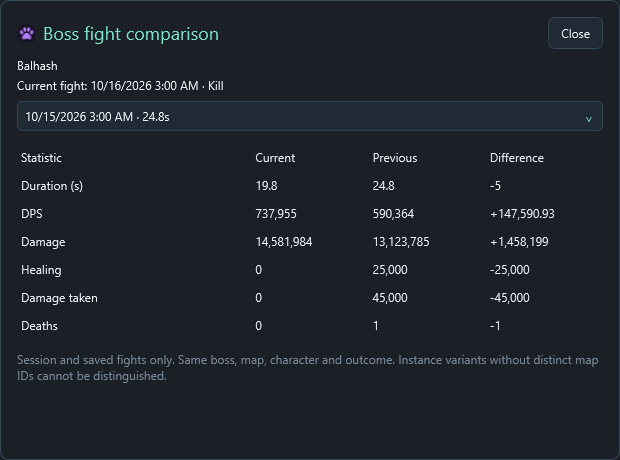
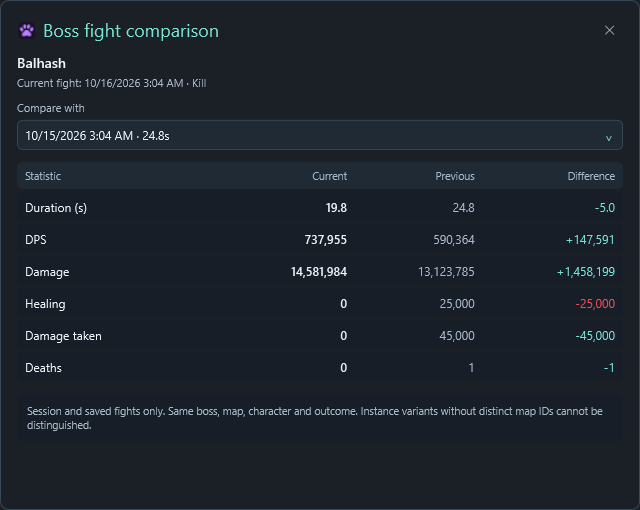
Refine boss comparison with meter-style rows and directional changes

diff --git a/src/AionMeter.App/Windows/BossComparisonWindow.cs b/src/AionMeter.App/Windows/BossComparisonWindow.cs
@@ -10,23 +10,28 @@ internal sealed class BossComparisonWindow : Window
 {
     private readonly Grid _table=new(){Margin=new(0,12,0,0)};
     private static string T(string text)=>UiText.Current.Localize(text);
+    private static readonly Brush Accent=new SolidColorBrush(Color.FromRgb(121,227,207));
+    private static readonly Brush Muted=new SolidColorBrush(Color.FromRgb(169,184,199));
+    private static readonly Brush Red=new SolidColorBrush(Color.FromRgb(239,77,86));
+    private static readonly Brush Surface=new SolidColorBrush(Color.FromRgb(23,30,39));
     private sealed record Choice(EncounterSnapshot Fight){public string Label=>$"{Fight.StartedAt.LocalDateTime.ToString("g",UiText.Current.Culture)} · {(Fight.CombatMs/1000d).ToString("N1",UiText.Current.Culture)}s";public override string ToString()=>Label;}
     public BossComparisonWindow(EncounterSnapshot current,IEnumerable<EncounterSnapshot> candidates)
     {
-        Title="CatScratch · "+T("Boss fight comparison");Width=620;Height=460;MinWidth=520;MinHeight=340;WindowStyle=WindowStyle.None;WindowStartupLocation=WindowStartupLocation.CenterScreen;
+        Title="CatScratch · "+T("Boss fight comparison");Width=640;Height=510;MinWidth=560;MinHeight=340;WindowStyle=WindowStyle.None;WindowStartupLocation=WindowStartupLocation.CenterScreen;
         FontFamily=new("Segoe UI");Foreground=new SolidColorBrush(Color.FromRgb(237,242,247));Background=new SolidColorBrush(Color.FromRgb(27,32,39));
         Resources.MergedDictionaries.Add(new ResourceDictionary {Source=new Uri("/CatScratch;component/Theme/MeterTools.xaml",UriKind.Relative)});
         AppIcon.Apply(this);
         var root=new StackPanel {Margin=new(16)};
         var header=new DockPanel();root.Children.Add(header);
-        var close=new Button {Content=T("Close"),HorizontalAlignment=HorizontalAlignment.Right};close.Click+=(_,_)=>Close();DockPanel.SetDock(close,Dock.Right);header.Children.Add(close);
+        var close=new Button {Content="\uE711",ToolTip=T("Close"),Style=(Style)FindResource("IconButton"),HorizontalAlignment=HorizontalAlignment.Right};close.Click+=(_,_)=>Close();DockPanel.SetDock(close,Dock.Right);header.Children.Add(close);
         var paw=new Image {Source=Icon,Width=18,Height=18,Margin=new(0,0,8,0)};DockPanel.SetDock(paw,Dock.Left);header.Children.Add(paw);
         header.Children.Add(new TextBlock {Text=T("Boss fight comparison"),FontSize=18,VerticalAlignment=VerticalAlignment.Center,Foreground=new SolidColorBrush(Color.FromRgb(121,227,207))});
-        root.Children.Add(new TextBlock {Text=current.Boss?.Name,Margin=new(0,8,0,0)});
-        root.Children.Add(new TextBlock {Text=$"{T("Current fight")}: {current.StartedAt.LocalDateTime.ToString("g",UiText.Current.Culture)} · {T(current.Reason.ToString())}",Margin=new(0,4,0,8)});
+        root.Children.Add(new TextBlock {Text=current.Boss?.Name,FontSize=14,FontWeight=FontWeights.SemiBold,Margin=new(0,10,0,0)});
+        root.Children.Add(new TextBlock {Text=$"{T("Current fight")}: {current.StartedAt.LocalDateTime.ToString("g",UiText.Current.Culture)} · {T(current.Reason.ToString())}",FontSize=11,Foreground=Muted,Margin=new(0,4,0,10)});
         var choices=candidates.Where(p=>p.StartedAt<current.StartedAt && BossComparison.Compatible(current,p)).DistinctBy(p=>p.Id).OrderByDescending(p=>p.StartedAt).Select(p=>new Choice(p)).ToList();
+        root.Children.Add(new TextBlock {Text=T("Compare with"),FontSize=11,Foreground=Muted,Margin=new(0,0,0,5)});
         var select=new ComboBox {ItemsSource=choices,DisplayMemberPath="Label",MinWidth=250};root.Children.Add(select);root.Children.Add(_table);
-        root.Children.Add(new TextBlock {Text=T("Session and saved fights only. Same boss, map, character and outcome. Instance variants without distinct map IDs cannot be distinguished."),TextWrapping=TextWrapping.Wrap,Margin=new(0,12,0,0),Foreground=Brushes.LightSlateGray});
+        root.Children.Add(new Border {Background=Surface,CornerRadius=new(6),Padding=new(10),Margin=new(0,10,0,0),Child=new TextBlock {Text=T("Session and saved fights only. Same boss, map, character and outcome. Instance variants without distinct map IDs cannot be distinguished."),FontSize=10.5,TextWrapping=TextWrapping.Wrap,Foreground=Muted}});
         if(choices.Count==0)root.Children.Add(new TextBlock {Text=T("No comparable earlier fight available. Save boss fights to compare them after restarting."),TextWrapping=TextWrapping.Wrap,Margin=new(0,10,0,0)});
         select.SelectionChanged+=(_,_)=>{if(select.SelectedItem is Choice choice)Draw(current,choice.Fight);};select.SelectedIndex=choices.Count>0?0:-1;
         Content=new Border {Child=new ScrollViewer {Content=root,VerticalScrollBarVisibility=ScrollBarVisibility.Auto},BorderBrush=new SolidColorBrush(Color.FromRgb(54,73,87)),BorderThickness=new(1),CornerRadius=new(8)};
@@ -34,13 +39,25 @@ internal sealed class BossComparisonWindow : Window
     }
     private void Draw(EncounterSnapshot current,EncounterSnapshot previous)
     {
-        _table.Children.Clear();_table.RowDefinitions.Clear();_table.ColumnDefinitions.Clear();foreach(var width in new[]{2d,1d,1d,1d})_table.ColumnDefinitions.Add(new(){Width=new(width,GridUnitType.Star)});
+        _table.Children.Clear();_table.RowDefinitions.Clear();_table.ColumnDefinitions.Clear();foreach(var width in new[]{1.65d,1d,1d,1.1d})_table.ColumnDefinitions.Add(new(){Width=new(width,GridUnitType.Star)});
         var a=current.Combatants.Single(c=>c.IsSelf);var b=previous.Combatants.Single(c=>c.IsSelf);
-        void Row(string label,string now,string before,string delta){int row=_table.RowDefinitions.Count;_table.RowDefinitions.Add(new(){Height=GridLength.Auto});int col=0;foreach(var text in new[]{label,now,before,delta}){var cell=new TextBlock {Text=text,Margin=new(4,6,4,6),TextTrimming=TextTrimming.CharacterEllipsis};Grid.SetRow(cell,row);Grid.SetColumn(cell,col++);_table.Children.Add(cell);}}
+        void Row(string label,string now,string before,string delta,int? improvement=null)
+        {
+            int row=_table.RowDefinitions.Count;_table.RowDefinitions.Add(new(){Height=GridLength.Auto});
+            var background=new Border {Background=row==0?new SolidColorBrush(Color.FromRgb(32,42,53)):Surface,CornerRadius=new(5),Margin=new(0,0,0,3)};
+            Grid.SetRow(background,row);Grid.SetColumnSpan(background,4);_table.Children.Add(background);
+            int col=0;foreach(var text in new[]{label,now,before,delta})
+            {
+                var cell=new TextBlock {Text=text,ToolTip=text,FontSize=row==0?10.5:12,FontWeight=row>0 && col==1?FontWeights.SemiBold:FontWeights.Normal,
+                    Foreground=row==0?Muted:col==2?Muted:col==3?improvement is >0?Accent:improvement is <0?Red:Muted:Foreground,
+                    TextAlignment=col==0?TextAlignment.Left:TextAlignment.Right,Margin=new(8,7,8,9),TextTrimming=TextTrimming.CharacterEllipsis};
+                Grid.SetRow(cell,row);Grid.SetColumn(cell,col++);_table.Children.Add(cell);
+            }
+        }
         Row(T("Statistic"),T("Current"),T("Previous"),T("Difference"));
-        void Metric(string name,double x,double y,string format="N0")=>Row(T(name),x.ToString(format,UiText.Current.Culture),y.ToString(format,UiText.Current.Culture),(x-y).ToString("+#,0.##;-#,0.##;0",UiText.Current.Culture));
-        Metric("Duration (s)",current.CombatMs/1000d,previous.CombatMs/1000d,"N1");Metric("DPS",a.Dps,b.Dps);Metric("Damage",a.Damage,b.Damage);Metric("Healing",a.Healing,b.Healing);Metric("Damage taken",a.DamageTaken,b.DamageTaken);
-        Row(T("Deaths"),a.Deaths?.ToString()??"—",b.Deaths?.ToString()??"—",a.Deaths is int ad && b.Deaths is int bd?(ad-bd).ToString("+0;-0;0"):"—");
+        void Metric(string name,double x,double y,bool lower=false,string format="N0")=>Row(T(name),x.ToString(format,UiText.Current.Culture),y.ToString(format,UiText.Current.Culture),(x-y).ToString(format=="N1"?"+#,0.0;-#,0.0;0":"+#,0;-#,0;0",UiText.Current.Culture),Math.Sign(x-y)*(lower?-1:1));
+        Metric("Duration (s)",current.CombatMs/1000d,previous.CombatMs/1000d,true,"N1");Metric("DPS",a.Dps,b.Dps);Metric("Damage",a.Damage,b.Damage);Metric("Healing",a.Healing,b.Healing);Metric("Damage taken",a.DamageTaken,b.DamageTaken,true);
+        Row(T("Deaths"),a.Deaths?.ToString()??"—",b.Deaths?.ToString()??"—",a.Deaths is int ad && b.Deaths is int bd?(ad-bd).ToString("+0;-0;0"):"—",a.Deaths is int x && b.Deaths is int y?Math.Sign(y-x):null);
         bool Partial(EncounterSnapshot fight)=>!fight.BossStartObserved || fight.Boss?.CountedFrom is not null;
         if(Partial(current) || Partial(previous))Row(T("Recording"),Partial(current)?T("Possibly partial"):"—",Partial(previous)?T("Possibly partial"):"—","");
     }

diff --git a/src/AionMeter.App/Services/UiText.LayoutComparison.cs b/src/AionMeter.App/Services/UiText.LayoutComparison.cs
@@ -6,6 +6,7 @@ public sealed partial class UiText
     {
         ["Overlay profiles"]=("Overlay-Profile","Профили оверлеев","Profils des overlays"),
         ["Profile name"]=("Profilname","Название профиля","Nom du profil"),
+        ["Compare with"]=("Vergleichen mit","Сравнить с","Comparer avec"),
         ["Saved profiles"]=("Gespeicherte Profile","Сохранённые профили","Profils enregistrés"),
         ["Save current layout"]=("Aktuelles Layout speichern","Сохранить текущий макет","Enregistrer la disposition actuelle"),
         ["No profiles saved yet."]=("Noch keine Profile gespeichert.","Пока нет сохранённых профилей.","Aucun profil enregistré."),

diff --git a/README.md b/README.md
@@ -2,12 +2,12 @@
 
 A separate, always-on-top Windows DPS meter for **AION 2**, by Zerafithekitten. Track your own fights and confirmed party members in a compact dark interface with turquoise accents and purple paw branding.
 
-[Download Stable](https://github.com/Zerafithekitten/CatScratch/releases/latest) · [Download Beta](https://github.com/Zerafithekitten/CatScratch/releases/tag/v2.5.6-beta.8) · [Release history](https://github.com/Zerafithekitten/CatScratch/releases) · [Report a bug / request a feature](https://github.com/Zerafithekitten/CatScratch/issues/new/choose)
+[Download Stable](https://github.com/Zerafithekitten/CatScratch/releases/latest) · [Download Beta](https://github.com/Zerafithekitten/CatScratch/releases/tag/v2.5.6-beta.9) · [Release history](https://github.com/Zerafithekitten/CatScratch/releases) · [Report a bug / request a feature](https://github.com/Zerafithekitten/CatScratch/issues/new/choose)
 
 | Channel | Current version | What it includes |
 | --- | --- | --- |
 | **Stable** | **[v2.5.5](https://github.com/Zerafithekitten/CatScratch/releases/tag/v2.5.5)** | Boss personal bests, recent teammates, death recap, background updates, separate Started events, improved group-search handling and ten patchnotes tabs on the left. |
-| **Beta** | **[v2.5.6-beta.8](https://github.com/Zerafithekitten/CatScratch/releases/tag/v2.5.6-beta.8)** | Everything in Stable, plus optional quiet automatic start/close with AION 2, a five-member roster repair, a capture-folder shortcut and a compact five-hit death recap, optional overlay profiles and boss comparisons. |
+| **Beta** | **[v2.5.6-beta.9](https://github.com/Zerafithekitten/CatScratch/releases/tag/v2.5.6-beta.9)** | Everything in Stable, plus optional quiet automatic start/close with AION 2, a five-member roster repair, a capture-folder shortcut and a compact five-hit death recap, optional overlay profiles and boss comparisons. |
 
 English is the default. German, Russian and French are also available. Screenshots use synthetic sample data; names and numbers are examples. Event-module previews show **v2.5.4-beta.4**.
 
@@ -264,7 +264,7 @@ This keeps the watcher separate from the program files that an update replaces, 
 - The watcher does not capture game traffic, download updates, upload files, read chat or ask for account credentials. Network capture and normal update checks belong to the meter after it starts.
 - The task runs for the signed-in user with the highest available privileges, matching CatScratch's existing administrator requirement. It does not create a SYSTEM service or store your Windows password.
 - The shipped local script uses `-ExecutionPolicy Bypass` for its own PowerShell process. CatScratch does not change the machine-wide PowerShell execution policy. Managed Windows restrictions may still prevent it from running; failed setup is reported rather than silently enabling the option.
-- Scripts and configuration are kept locally in `userdata/game-start`. You can inspect the [watcher source](https://github.com/Zerafithekitten/CatScratch/blob/v2.5.6-beta.8/src/AionMeter.App/Services/GameLifetime.cs) and [windowless launcher source](https://github.com/Zerafithekitten/CatScratch/blob/v2.5.6-beta.8/src/AionMeter.App/Launcher/GameWatcherLauncher.cs).
+- Scripts and configuration are kept locally in `userdata/game-start`. You can inspect the [watcher source](https://github.com/Zerafithekitten/CatScratch/blob/v2.5.6-beta.9/src/AionMeter.App/Services/GameLifetime.cs) and [windowless launcher source](https://github.com/Zerafithekitten/CatScratch/blob/v2.5.6-beta.9/src/AionMeter.App/Launcher/GameWatcherLauncher.cs).
 
 ### Why no PowerShell window should appear
 

diff --git a/data/patchnotes-en.md b/data/patchnotes-en.md
@@ -1,8 +1,8 @@
-## CatScratch v2.5.6-beta.8
+## CatScratch v2.5.6-beta.9
 
 ### Optional layouts and boss fight comparison
 - Added **Overlay profiles** as a separate Settings tab: save, apply, update and delete named layouts. Profiles restore module placement, visibility, scale and appearance without changing capture, updates, hotkeys or autostart preferences.
-- Added **Boss fight comparison** to finished boss statistics. Compare your duration, DPS, damage, healing, damage taken and deaths with an earlier matching session or saved fight; the meter stays Live.
+- Added **Boss fight comparison** to finished boss statistics. Compare your duration, DPS, damage, healing, damage taken and deaths with an earlier matching session or saved fight; the meter stays Live. Compact dark rows highlight current values and use turquoise/red differences, accounting for lower-is-better statistics.
 - Comparisons match boss, map, character, outcome and damage mode, preserve unknown death counts and flag possibly partial recordings. Instance variants sharing the same map ID cannot be distinguished. Save fights to retain comparisons across restarts.
 
 ## CatScratch v2.5.6-beta.7
